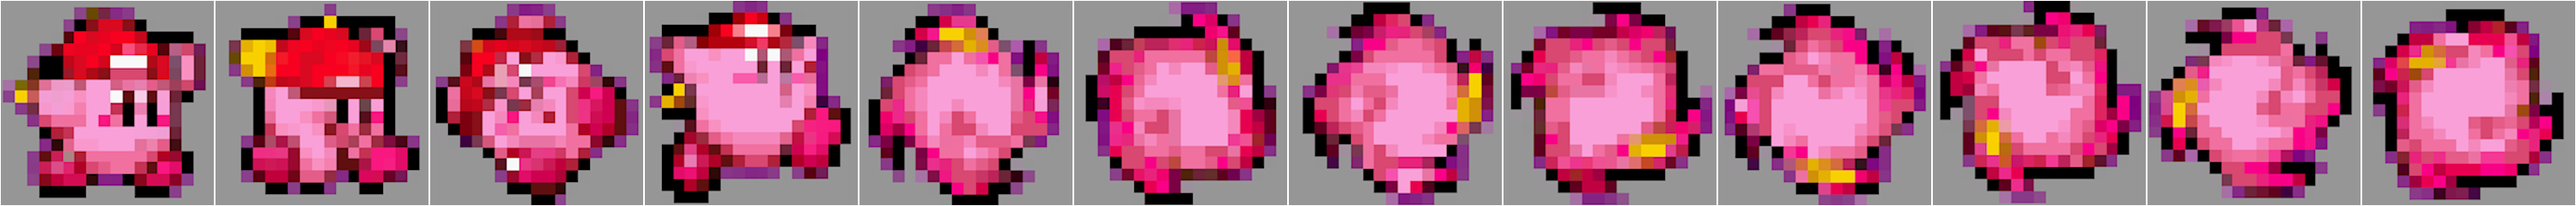
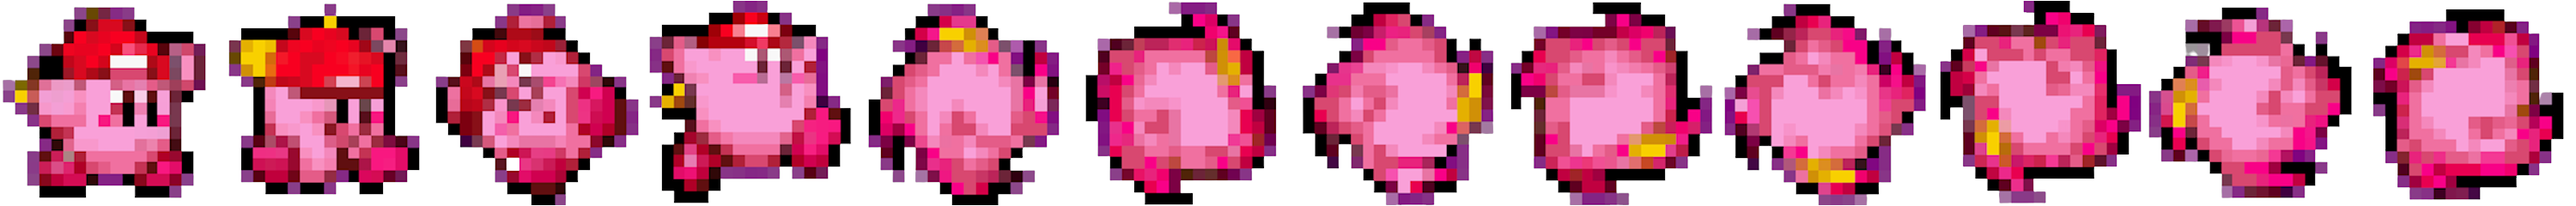
Kirby done

diff --git a/main.js b/main.js
@@ -213,7 +213,7 @@ function handleProjectiles() {
 // ----------CLASSES----------------//
 
 const kirby1 = new Image();
-kirby1.src = "./Images/killer/coin.png"
+kirby1.src = "./Images/killer/kirby.png"
 
 
 class DogeKiller {
@@ -242,9 +242,9 @@ class DogeKiller {
         this.frameX = 0;  //<--- num de frames en la fila
         this.frameY = 0; //<--- si hay varias filas seria el numero de filas 
         this.minFrame = 0; //
-        this.maxFrame = 5;
-        this.spriteWidth = 30; // <-- cuando frame X es 0 se le suma el ancho y empieza el nuevo FrameX en el ancho 144 (cortando)
-        this.spriteHeight = 30;
+        this.maxFrame = 11;
+        this.spriteWidth = 248; // <-- cuando frame X es 0 se le suma el ancho y empieza el nuevo FrameX en el ancho 144 (cortando)
+        this.spriteHeight = 238;
     }
     draw() {
         // if (frame % 100 === 0) {
@@ -264,8 +264,8 @@ class DogeKiller {
         //     ctx.drawImage(this.img5, this.x, this.y + 22, this.width, this.height);
         // }
         
-        ctx.fillStyle = 'blue';
-        ctx.fillRect(this.x, this.y,  this.width, this.hight); // <-----  OJO Revisar por que no me esta tomando 
+        // ctx.fillStyle = 'blue';
+        // ctx.fillRect(this.x, this.y,  this.width, this.hight); // <-----  OJO Revisar por que no me esta tomando 
         ctx.fillStyle = 'gold'; // <------ Vamos a dibujar tambien su vida con los siguientes atributos:
         ctx.font = '30px Orbitron'; // <----- al poner este atributo la funcion esta esperando ordenes de escribir algo: (this.health)
         // la vida se representa en integrales en 👇  la posicion que tenga el defensor
@@ -273,7 +273,7 @@ class DogeKiller {
         //context.drawImage(img, sx, sy, sw, sh, dx, dy, dw, dh)
         // img = imagen / sx = 	Frame index por spriteWidth(para emepzar X=spriteWidth) / sy= frameIndex 0 y no se multiplica por spriteHeight ya que esta en una sola fila
         //sw=spriteWidth / sy=spriteHeight / dx = destino en X/ dy=destino en Y / dw = ancho / dh = alto
-        ctx.drawImage(kirby1, this.frameX * this.spriteWidth,0, this.spriteWidth, this.spriteHeight, this.x, this.y,this.width, this.height);
+        ctx.drawImage(kirby1, this.frameX * this.spriteWidth,0, this.spriteWidth, this.spriteHeight, this.x + 15, this.y + 20,60, 60);
         
     }
     update(){
